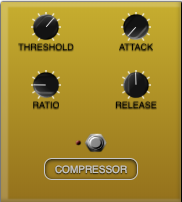
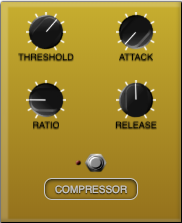
changing style

diff --git a/jordan-SINTES/compressor_effect/compressor/main.html b/jordan-SINTES/compressor_effect/compressor/main.html
@@ -13,7 +13,7 @@
 
 
             width: 180px;
-            height: 200px;
+            height: 220px;
             display: block;
             user-select: none;
             cursor: move;
@@ -119,14 +119,14 @@
         <div class="column">
             <div class= "knob" id="threshold">
                     <webaudio-knob id="/COMPRESSOR/0x00/Compression_Control/Threshold" class="knob" sprites="99" min="-100" max="10" step="0.1" value="-30" midilearn="true" src="https://wasabi.i3s.unice.fr/WebAudioPluginBank/img/nux_black_white_stripe.png"
-                    width="30" height="30" data-role="Threshold" diameter="24" tooltip="Threshold"></webaudio-knob>
+                    width="40" height="40" data-role="Threshold" diameter="24" tooltip="Threshold"></webaudio-knob>
             </div>
             
             <span class="knob-label" id="knob1-label" style="color: black">THRESHOLD</span>
 
             <div class="knob" id="ratio">
                     <webaudio-knob id="/COMPRESSOR/0x00/Compression_Control/Ratio" class="knob" sprites="99" min="1" max="20" step="0.1" value="5" midilearn="true" src="https://wasabi.i3s.unice.fr/WebAudioPluginBank/img/nux_black_white_stripe.png"
-                    width="30" height="30" data-role="Threshold" diameter="24" tooltip="Ratio"></webaudio-knob>
+                    width="40" height="40" data-role="Threshold" diameter="24" tooltip="Ratio"></webaudio-knob>
             </div>
             
             <span class="knob-label" id="knob1-label" style="color: black">RATIO</span>
@@ -136,14 +136,14 @@
         <div class="column2">
             <div class= "knob" id="attack">
                     <webaudio-knob id="/COMPRESSOR/0x00/Compression_Response/Attack_____tooltip:_Time_constant_in_ms_(1/e_smoothing_time)_for_the_compression_gain__to_approach_(exponentially)_a_new_lower_target_level_(the_compression__`kicking_in')]" class="knob" sprites="99" min="1" max="1000" step="0.1" value="50" midilearn="true" src="https://wasabi.i3s.unice.fr/WebAudioPluginBank/img/nux_black_white_stripe.png"
-                    width="30" height="30" data-role="Threshold" diameter="24" tooltip="Attack"></webaudio-knob>
+                    width="40" height="40" data-role="Threshold" diameter="24" tooltip="Attack"></webaudio-knob>
             </div>
             
             <span class="knob-label" id="knob1-label" style="color: black">ATTACK</span>
 
             <div class="knob" id ="release">
                     <webaudio-knob id="/COMPRESSOR/0x00/Compression_Response/Release" class="knob" sprites="99" min="1" max="1000" step="0.1" value="500" midilearn="true" src="https://wasabi.i3s.unice.fr/WebAudioPluginBank/img/nux_black_white_stripe.png"
-                    width="30" height="30" data-role="Threshold" diameter="24" tooltip="Release"></webaudio-knob>
+                    width="40" height="40" data-role="Threshold" diameter="24" tooltip="Release"></webaudio-knob>
             </div>
             
             <span class="knob-label" id="knob1-label" style="color: black">RELEASE</span>
@@ -187,7 +187,7 @@
                 },
                 dataHeight: {
                     type: Number,
-                    value: 200
+                    value: 220
                 }
             };
             return this.boundingRect;
